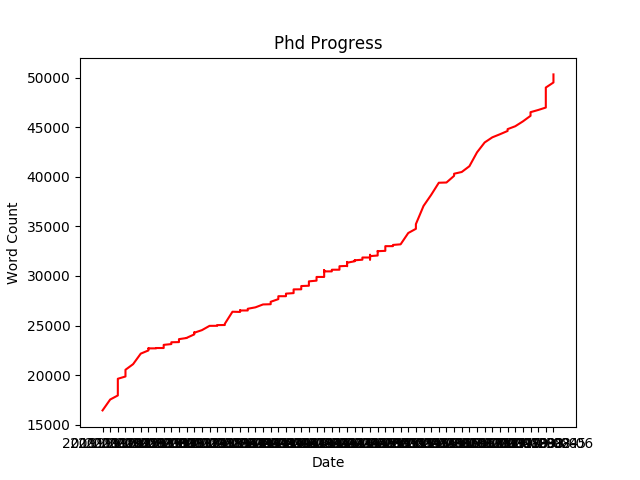
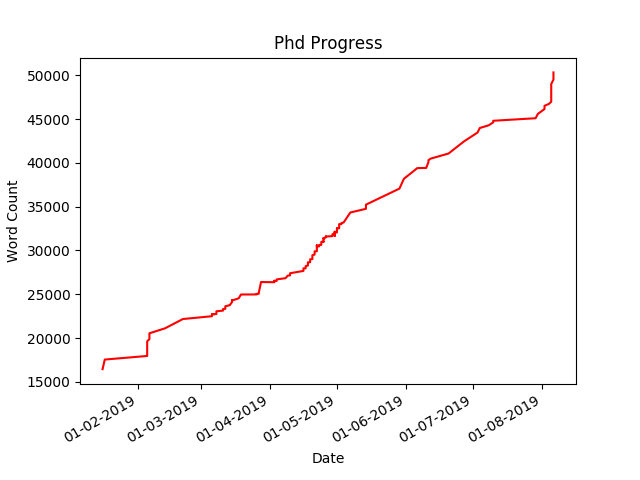
fixed progress graph dates

diff --git a/makegraph.py b/makegraph.py
@@ -1,15 +1,31 @@
 #!/usr/bin/env python3
 
+import datetime
 import sys
-import os
 import matplotlib.pyplot as plt
+import matplotlib.dates as mdates
 import pandas as pd
 
+# ticks formaters
+years = mdates.YearLocator()   # every year
+months = mdates.MonthLocator()  # every month
+weeks =  mdates.WeekdayLocator() # every week
+monthFmt = mdates.DateFormatter('%d-%m-%Y')
 
+# read data
 data = pd.read_csv(sys.stdin,sep=' ', header=0)
+data['date'] = pd.to_datetime(data['date'])
 
+# the plot
+plt.figure()
 plt.plot(data['date'], data['words'], color='r', label='PhD Progress')
 plt.xlabel('Date')
 plt.ylabel('Word Count')
 plt.title('Phd Progress')
+
+# format the ticks
+ax = plt.gca()
+ax.xaxis.set_major_locator(months)
+ax.xaxis.set_major_formatter(monthFmt)
+plt.gcf().autofmt_xdate() # Rotation
 plt.savefig('word_count.png')
